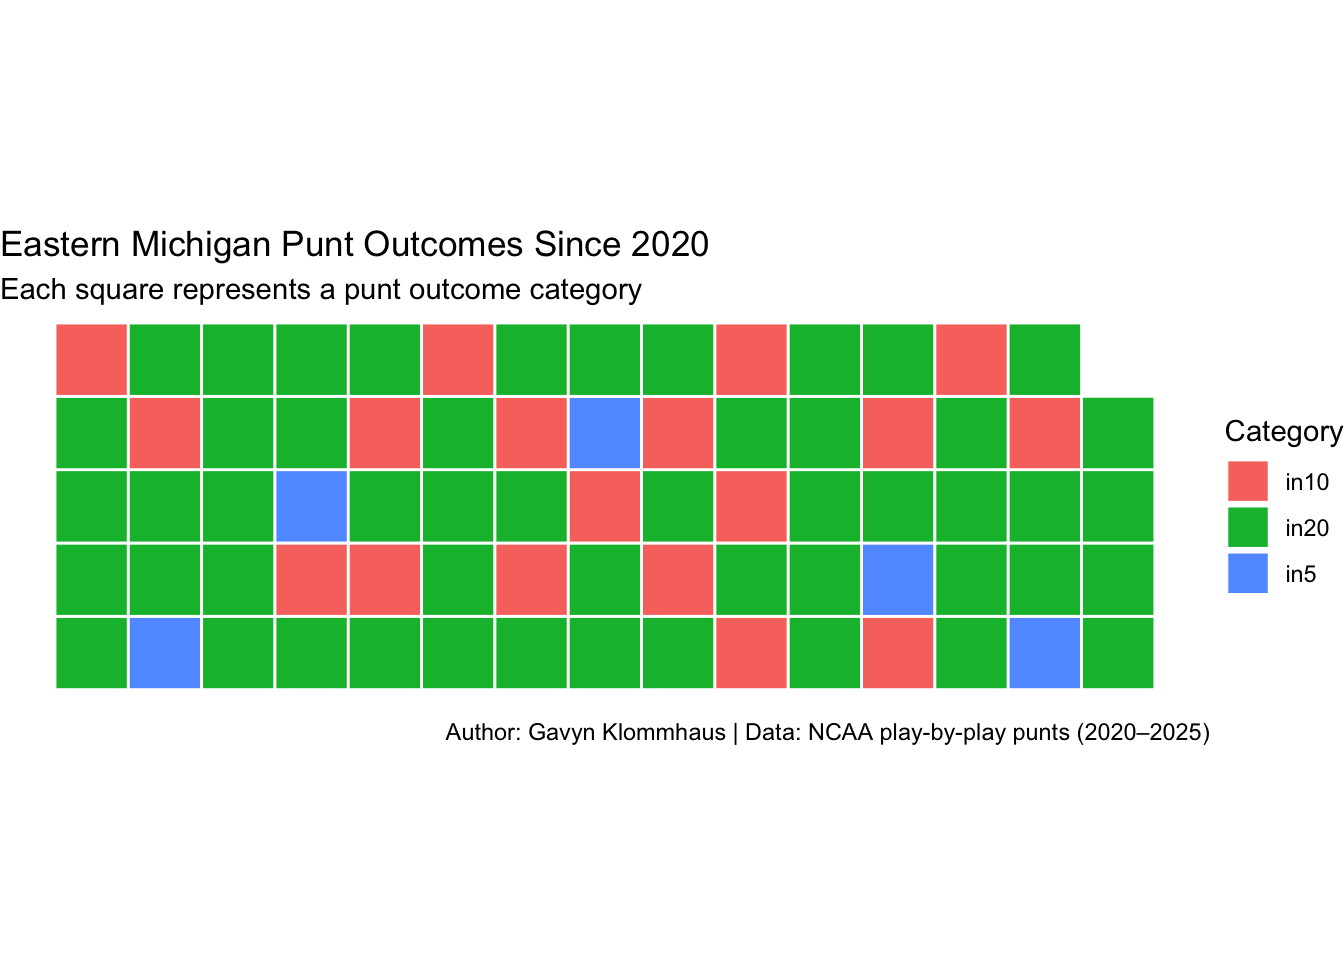
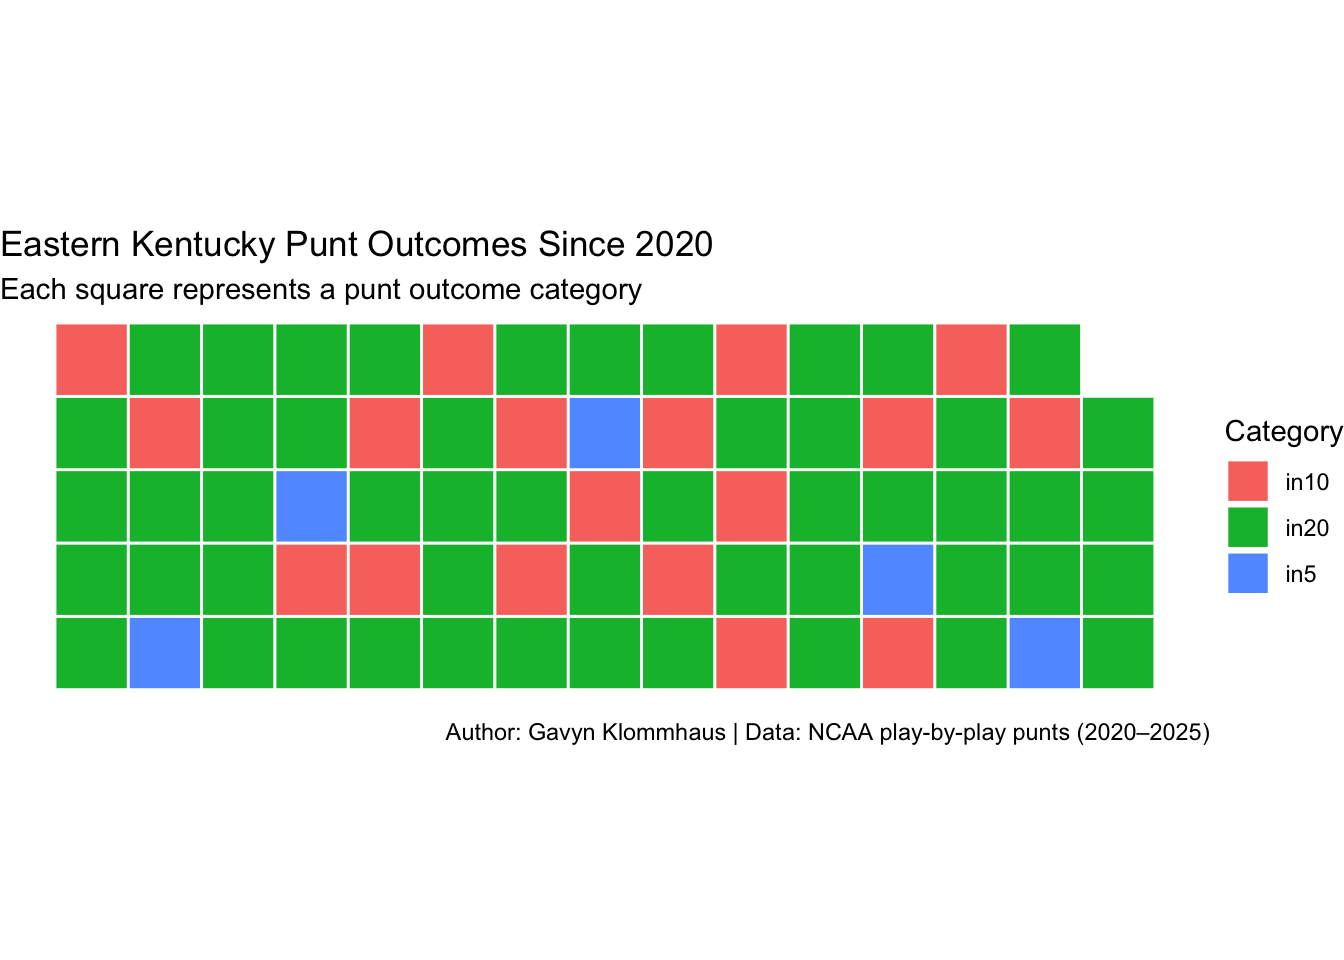
done

Changed region(s): [[0.0938, 0.2188, 0.5312, 0.2812]]

diff --git a/posts/punter-university/index.html b/posts/punter-university/index.html
@@ -333,7 +333,7 @@ pre > code.sourceCode > span > a:first-child::before { text-decoration: underlin
 <span id="cb3-26"><a href="#cb3-26" aria-hidden="true" tabindex="-1"></a>  <span class="fu">coord_equal</span>() <span class="sc">+</span></span>
 <span id="cb3-27"><a href="#cb3-27" aria-hidden="true" tabindex="-1"></a>  <span class="fu">theme_void</span>() <span class="sc">+</span></span>
 <span id="cb3-28"><a href="#cb3-28" aria-hidden="true" tabindex="-1"></a>  <span class="fu">labs</span>(</span>
-<span id="cb3-29"><a href="#cb3-29" aria-hidden="true" tabindex="-1"></a>    <span class="at">title =</span> <span class="st">"Eastern Michigan Punt Outcomes Since 2020"</span>,</span>
+<span id="cb3-29"><a href="#cb3-29" aria-hidden="true" tabindex="-1"></a>    <span class="at">title =</span> <span class="st">"Eastern Kentucky Punt Outcomes Since 2020"</span>,</span>
 <span id="cb3-30"><a href="#cb3-30" aria-hidden="true" tabindex="-1"></a>    <span class="at">subtitle =</span> <span class="st">"Each square represents a punt outcome category"</span>,</span>
 <span id="cb3-31"><a href="#cb3-31" aria-hidden="true" tabindex="-1"></a>    <span class="at">fill =</span> <span class="st">"Category"</span>,</span>
 <span id="cb3-32"><a href="#cb3-32" aria-hidden="true" tabindex="-1"></a>    <span class="at">caption =</span> <span class="st">"Author: Gavyn Klommhaus | Data: NCAA play-by-play punts (2020–2025)"</span></span>
@@ -392,8 +392,8 @@ pre > code.sourceCode > span > a:first-child::before { text-decoration: underlin
 </div>
 </div>
 </div>
-<p>Looking at these, we can see that their percentage within the 20 are the same, but Eastern Michigan clearly had more punts land within the 10 and 5 yard lines.</p>
-<p>After looking at all of this data, there is an easy conclusion, the Eastern Michigan Colonles have been Punter University within the pervious 5 years.</p>
+<p>Looking at these, we can see that their percentage within the 20 are the same, but Eastern Kentucky clearly had more punts land within the 10 and 5 yard lines.</p>
+<p>After looking at all of this data, there is an easy conclusion, the Eastern Kentucky Colonles have been Punter University within the pervious 5 years.</p>
 
 
 

diff --git a/index.html b/index.html
@@ -210,7 +210,7 @@ window.Quarto = {
 
 <div class="quarto-listing quarto-listing-container-default" id="listing-listing">
 <div class="list quarto-listing-default">
-<div class="quarto-post image-right" data-index="0" data-categories="cHVudGluZyUyQ25jYWElMkNmYnM=" data-listing-date-sort="1775797200000" data-listing-file-modified-sort="1776373335734" data-listing-date-modified-sort="NaN" data-listing-reading-time-sort="6" data-listing-word-count-sort="1040">
+<div class="quarto-post image-right" data-index="0" data-categories="cHVudGluZyUyQ25jYWElMkNmYnM=" data-listing-date-sort="1775797200000" data-listing-file-modified-sort="1776374872912" data-listing-date-modified-sort="NaN" data-listing-reading-time-sort="6" data-listing-word-count-sort="1040">
 <div class="thumbnail"><a href="./posts/punter-university/index.html" class="no-external">
 
 <img loading="lazy" src="./posts/punter-university/image.png" class="thumbnail-image">
